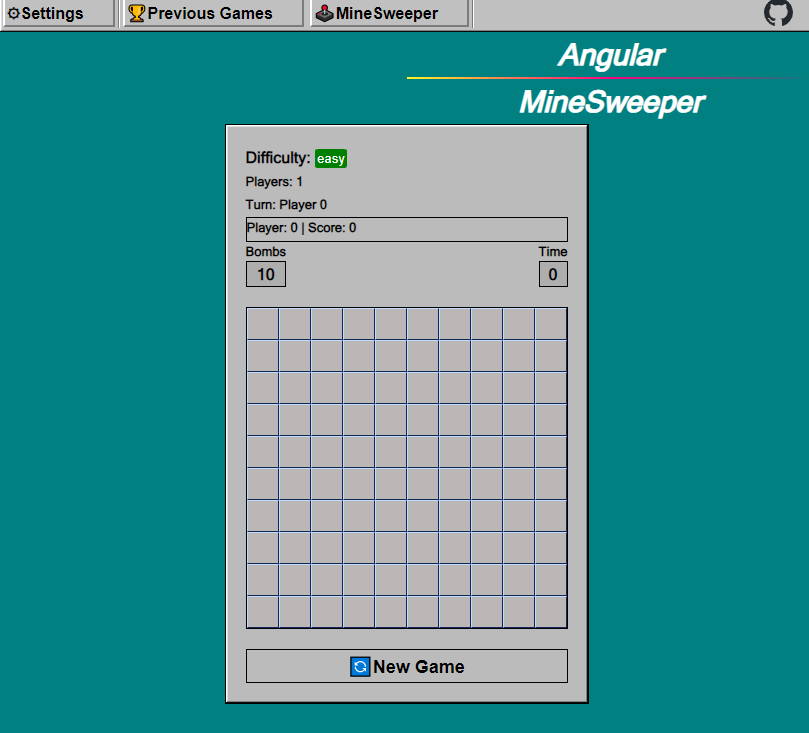
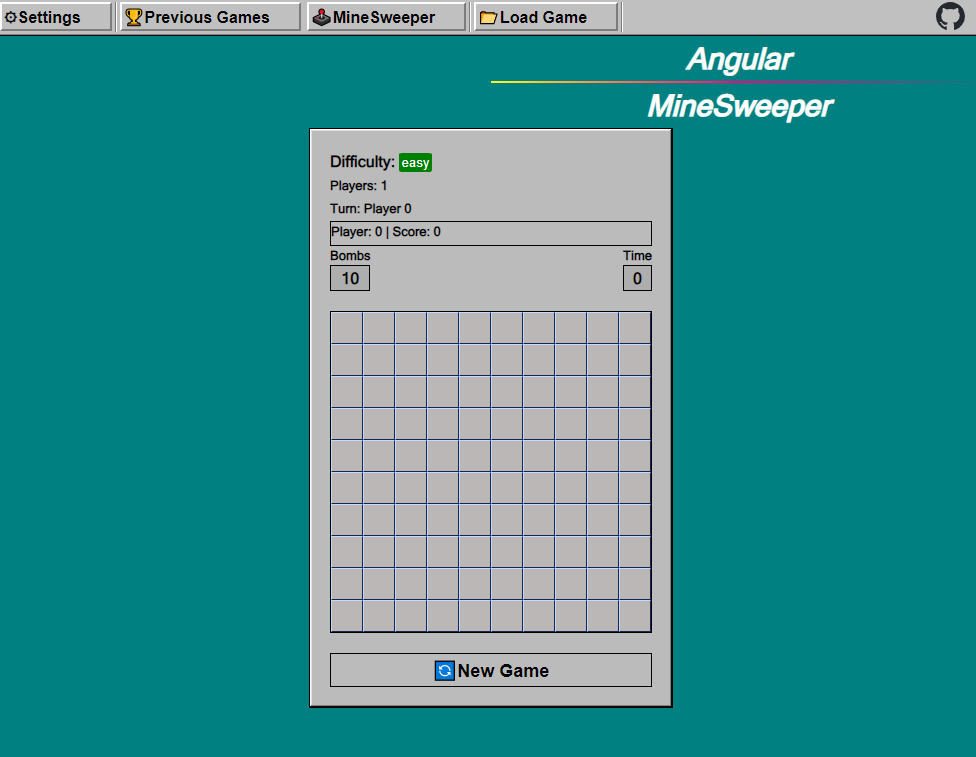
feat: save and loading game state

Changed region(s): [[0.0, 0.0, 1.0, 0.9604]]

diff --git a/src/app/services/game.service.ts b/src/app/services/game.service.ts
@@ -2,6 +2,8 @@ import { Injectable } from '@angular/core';
 import { Cell } from '../models/cell.model';
 import { Player } from '../models/player.model';
 import { GameDifficulty, GameStats } from '../models/game-stats.model';
+import { SavedGame } from '../models/saved-game.model';
+import { Router } from '@angular/router';
 
 type GameState = 'run' | 'lose' | 'win' | 'initial';
 
@@ -9,6 +11,9 @@ type GameState = 'run' | 'lose' | 'win' | 'initial';
   providedIn: 'root'
 })
 export class GameService {
+
+  constructor(private router: Router){}
+
   cellWidth = 32;
   cellHeight = 32;
   gridWidth = 10;
@@ -29,6 +34,32 @@ export class GameService {
   currentGameStats: Partial<GameStats> = {};
   currentGameState: GameState = 'initial';
   playerStats: Player[] = [];
+
+  saveCurrentGame() {
+    if (this.currentGameState !== 'run' || !this.isTimerRunning) {
+      alert('No game in progress.');
+      return;
+    }
+    const currentGame: SavedGame = {
+      bombs: this.bombs,
+      cells: this.cells,
+      currentPlayer: this.currentPlayer,
+      flags: this.flags,
+      playerStats: this.playerStats,
+      plays: this.plays,
+      time: this.time,
+      cellWidth: this.cellWidth,
+      cellHeight: this.cellHeight,
+      gridHeight: this.gridHeight,
+      gridWidth: this.gridWidth,
+      currentGameStats: this.currentGameStats as GameStats,
+    }
+    // TODO: Add many saved games
+    // const savedGames = JSON.parse(localStorage.getItem('savedGames') || '[]') as Array<SavedGame>;
+    // savedGames.push(currentGame);
+    const savedGames: SavedGame[] = [currentGame];
+    localStorage.setItem('savedGames', JSON.stringify(savedGames));
+  }
 
   newGame() {
     this.loadPreviousGames();
@@ -65,6 +96,33 @@ export class GameService {
     if (gamesPlayed) {
       this.previousGames = JSON.parse(gamesPlayed);
     }
+  }
+
+  getSavedGames(): SavedGame[] {
+    return JSON.parse(localStorage.getItem('savedGames') || '[]');
+  }
+
+  loadSavedGame(savedGame: SavedGame): void {
+    this.players = savedGame.currentGameStats.players;
+    this.plays = savedGame.plays;
+    this.currentPlayer = savedGame.currentPlayer;
+    this.cells = savedGame.cells;
+    this.flags = savedGame.flags;
+    this.bombs = savedGame.bombs;
+    this.currentGameState = 'run';
+    this.time = savedGame.time;
+    this.difficulty = savedGame.currentGameStats.difficulty;
+    this.cellWidth = savedGame.cellWidth;
+    this.cellHeight = savedGame.cellHeight;
+    this.gridWidth = savedGame.gridWidth;
+    this.gridHeight = savedGame.gridHeight;
+    this.currentGameStats = savedGame.currentGameStats;
+    this.isTimerRunning = true;
+    window.clearInterval(this.timeInterval);
+    this.timeInterval = window.setInterval(() => {
+      this.time += 1;
+    }, 1000);
+    this.router.navigate(['/']);
   }
 
   restartTimer() {

diff --git a/src/app/saved-games/saved-games.component.html b/src/app/saved-games/saved-games.component.html
@@ -1,0 +1,26 @@
+<div class="ranks-container">
+  <div class="exit-bar">
+    <div class="exit-button" routerLink="/">X</div>
+  </div>
+  <div class="rank-header"><span style="font-weight: bold;">Saved Games</span>🏆</div>
+  <div class="rank-board">
+    <div *ngFor="let game of savedGames" class="rank-cell">
+      <div style="display: flex;justify-content: space-between;width: 90%;">
+        <div><span style="font-weight: bold;">Start Time:</span> {{game.currentGameStats.startTime | date:'MM-dd-YYYY hh:mm'}}</div>
+      </div>
+      <div style="margin: 3px 0px 3px 0px;">
+        <span style="font-weight: bold;">Difficulty:</span>
+        <span class="tag" [class]="game.currentGameStats.difficulty">{{game.currentGameStats.difficulty}}</span>
+      </div>
+      <div style="display: flex;width: 100%;">
+        <div style="flex:2;"><span style="font-weight: bold;">Total Time Spent:</span> {{game.time}}</div>
+        <div style="flex:1;">
+          <button style="cursor: pointer;" (click)="gameService.loadSavedGame(game)">📂Load Game</button>
+        </div>
+      </div>
+    </div>
+  </div>
+  <div class="btn-group">
+    <button routerLink="/" class="btn-basic">Back To Game</button>
+  </div>
+</div>

diff --git a/src/app/app.component.spec.ts b/src/app/app.component.spec.ts
@@ -6,6 +6,7 @@ import { CellComponent } from './cell/cell-button.component';
 import { TopbarComponent } from './topbar/topbar.component';
 import { PreviousGamesComponent, PreviousGamesPipe } from './previous-games/previous-games.component';
 import { RouterModule, Routes } from '@angular/router';
+import { SavedGamesComponent } from './saved-games/saved-games.component';
 
 const routes: Routes = [
   { path: '', component: BoardComponent },
@@ -14,7 +15,7 @@ const routes: Routes = [
 
 describe('AppComponent', () => {
   beforeEach(() => TestBed.configureTestingModule({
-    declarations: [AppComponent, BoardComponent, SettingsComponent, CellComponent, TopbarComponent, PreviousGamesComponent, PreviousGamesPipe],
+    declarations: [AppComponent, BoardComponent, SettingsComponent, CellComponent, TopbarComponent, PreviousGamesComponent, PreviousGamesPipe, SavedGamesComponent],
     imports: [RouterModule.forRoot(routes)],
     providers: [PreviousGamesPipe],
   }));

diff --git a/src/app/app.module.ts b/src/app/app.module.ts
@@ -10,10 +10,12 @@ import { SettingsComponent } from './settings/settings.component';
 import { TopbarComponent } from './topbar/topbar.component';
 import { PreviousGamesComponent, PreviousGamesPipe } from './previous-games/previous-games.component';
 import { RouterModule, Routes } from '@angular/router';
+import { SavedGamesComponent } from './saved-games/saved-games.component';
 
 const routes: Routes = [
   { path: '', component: BoardComponent },
   { path: 'ranks', component: PreviousGamesComponent },
+  { path: 'saved-games', component: SavedGamesComponent },
 ];
 
 @NgModule({
@@ -25,6 +27,7 @@ const routes: Routes = [
     TopbarComponent,
     PreviousGamesComponent,
     PreviousGamesPipe,
+    SavedGamesComponent,
   ],
   imports: [
     BrowserModule,

diff --git a/src/app/saved-games/saved-games.component.spec.ts b/src/app/saved-games/saved-games.component.spec.ts
@@ -1,0 +1,21 @@
+import { ComponentFixture, TestBed } from '@angular/core/testing';
+
+import { SavedGamesComponent } from './saved-games.component';
+
+describe('SavedGamesComponent', () => {
+  let component: SavedGamesComponent;
+  let fixture: ComponentFixture<SavedGamesComponent>;
+
+  beforeEach(() => {
+    TestBed.configureTestingModule({
+      declarations: [SavedGamesComponent]
+    });
+    fixture = TestBed.createComponent(SavedGamesComponent);
+    component = fixture.componentInstance;
+    fixture.detectChanges();
+  });
+
+  it('should create', () => {
+    expect(component).toBeTruthy();
+  });
+});

diff --git a/src/app/saved-games/saved-games.component.ts b/src/app/saved-games/saved-games.component.ts
@@ -1,0 +1,15 @@
+import { Component } from '@angular/core';
+import { GameService } from '../services/game.service';
+import { SavedGame } from '../models/saved-game.model';
+
+@Component({
+  selector: 'app-saved-games',
+  templateUrl: './saved-games.component.html',
+  styleUrls: ['../previous-games/previous-games.component.sass']
+})
+export class SavedGamesComponent {
+  savedGames: SavedGame[];
+  constructor(public gameService: GameService) {
+    this.savedGames = gameService.getSavedGames();
+  }
+}

diff --git a/src/app/topbar/topbar.component.html b/src/app/topbar/topbar.component.html
@@ -5,6 +5,8 @@
     <button role="button" class="settings-button btn-basic" routerLink="/ranks">🏆Previous Games</button>
     <button role="button" class="settings-button btn-basic" routerLink="/">🕹MineSweeper</button>
     <div class="toolbar-separator"></div>
+    <button role="button" class="settings-button btn-basic" routerLink="/saved-games">📂Load Game</button>
+    <div class="toolbar-separator"></div>
   </div>
   <nav>
       <ul style="display: flex;">

diff --git a/src/app/models/saved-game.model.ts b/src/app/models/saved-game.model.ts
@@ -1,0 +1,18 @@
+import { Cell } from "./cell.model";
+import { GameStats } from "./game-stats.model";
+import { Player } from "./player.model";
+
+export interface SavedGame {
+  plays: number;
+  currentPlayer: number;
+  playerStats: Player[];
+  cells: Cell[];
+  flags: number;
+  bombs: number;
+  time: number;
+  cellWidth: number;
+  cellHeight: number;
+  gridWidth: number;
+  gridHeight: number;
+  currentGameStats: GameStats;
+}

diff --git a/src/app/board/board.component.html b/src/app/board/board.component.html
@@ -62,4 +62,7 @@
   <div class="flex" style="cursor: pointer;">
       <button (click)="gameService.newGame()" class="new-game-btn">🔄New Game</button>
   </div>
+  <div *ngIf="gameService.currentGameState === 'run' && gameService.isTimerRunning" class="flex" style="cursor: pointer;">
+    <button (click)="gameService.saveCurrentGame()" class="new-game-btn">💾Save Game</button>
+</div>
 </div>

diff --git a/src/app/models/game-stats.model.ts b/src/app/models/game-stats.model.ts
@@ -3,7 +3,7 @@ export type GameDifficulty = 'easy' | 'medium' | 'hard' | 'custom';
 export interface GameStats {
   id?: string;
   startTime: Date;
-  endTime: Date;
+  endTime?: Date;
   difficulty: GameDifficulty;
   totalTime: number;
   status: string;

diff --git a/README.md b/README.md
@@ -37,9 +37,12 @@ The idea is to make it look and feel like the gameplay from Windows 98 with adde
 
 * Multiplayer support. Currently hardcoded for a max o 4 players but its easily changeable on the code.
 
-* Save / Loading of previous games
+* List of previous games
 
 * Difficulty levels (easy, medium and hard). With the addition of `custom` level for the player to choose the size of the board and amount of bombs.
+
+* Saving / Loading games (currently limited a single game).
+> NOTE: Currently limited to just saving 1 game, still didn't have the time to fully make and test the feature.
 
 ---
 
@@ -117,5 +120,13 @@ Run `yarn lint` to run the linter.
 
 TODOS:
 
-* Improve styling, the styles are very convuluted currently.
+* Code improvements:
+    * Remove code duplication from GameService
+    * Move save / load logic to another service
+    * Improve new game logic (a lot of duplicated code)
+* Improve CSS styles
+    * General removal of duplication
+    * remove inline styles
+* More code coverage / unit tests!
 * Improve multiplayer support to add possibility of adding the names of the players.
+* Improved load game functionality by allowing multiple games to be saved.
